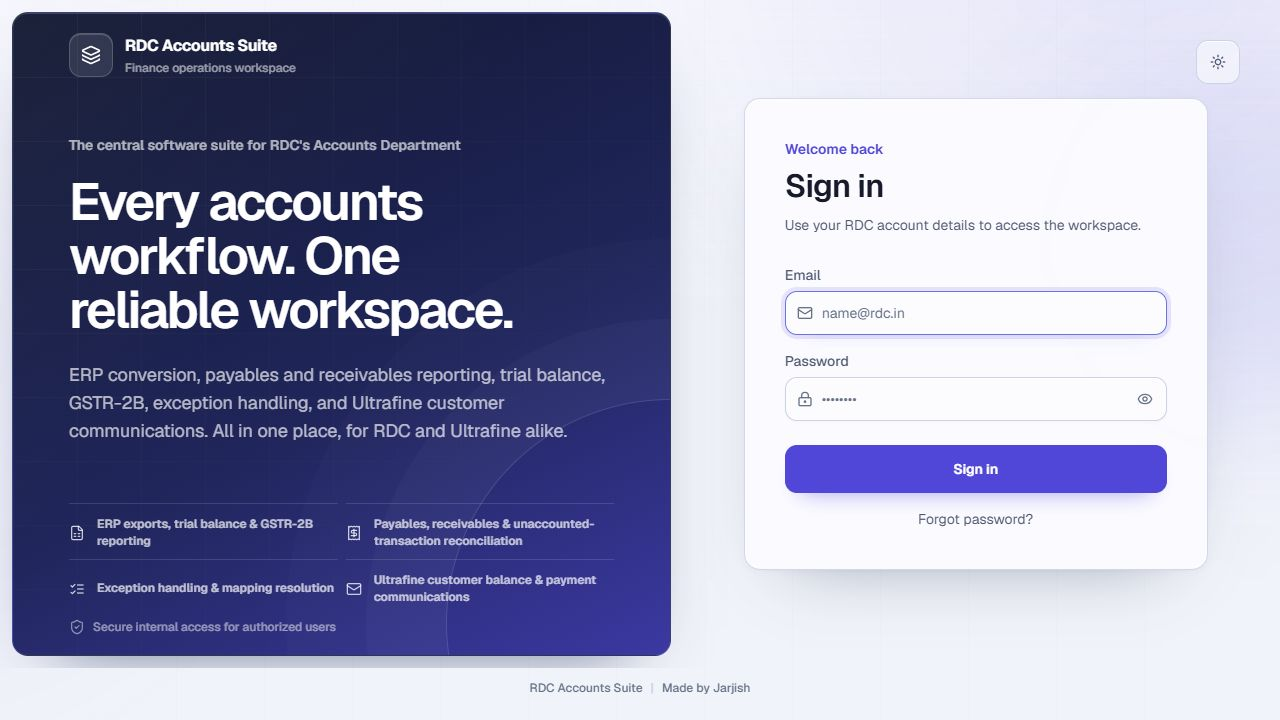
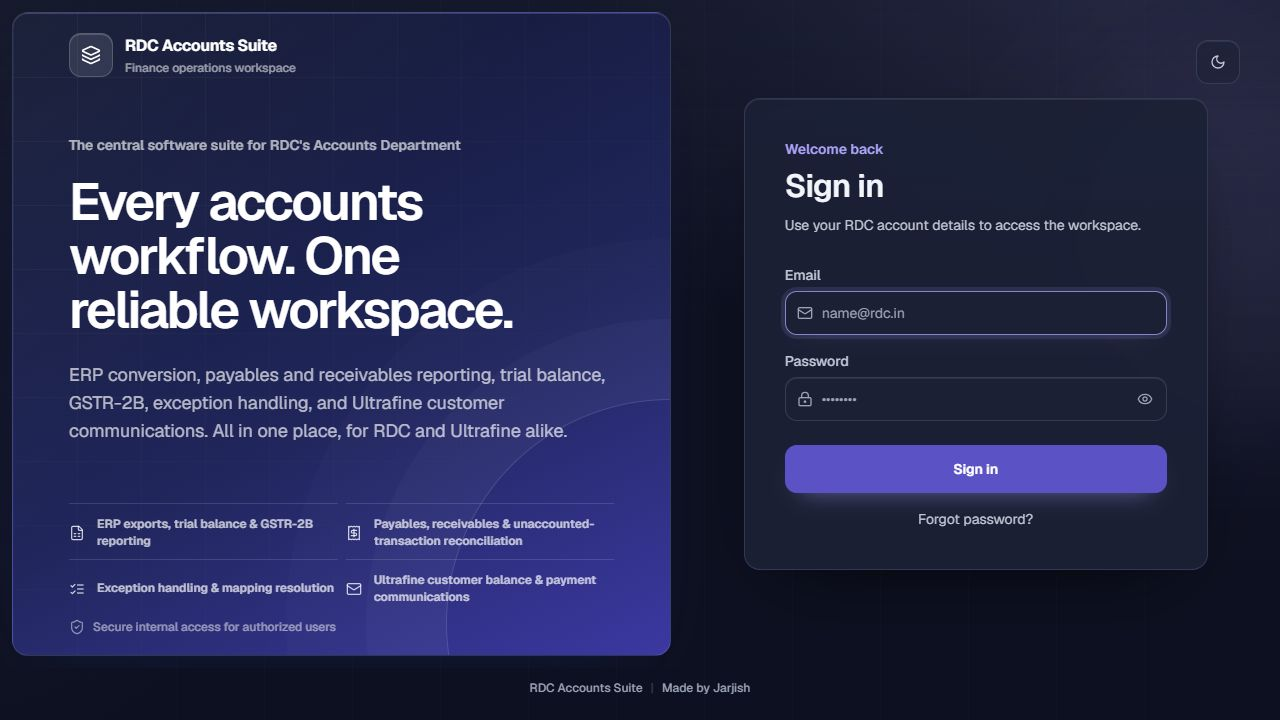
Refresh project documentation and product screenshots

diff --git a/README.md b/README.md
@@ -1,101 +1,158 @@
 # RDC Accounts Suite
 
-RDC Accounts Suite is the shared web workspace for RDC Concrete and Ultrafine's
-Accounts teams. It brings the former Windows utilities into one readable,
-role-aware application with durable background processing, central mappings,
-Oracle-backed reports, and scheduled email workflows.
+> A production-oriented finance operations workspace that consolidates RDC
+> Concrete and Ultrafine reporting, reconciliation, mapping, Oracle enrichment,
+> and scheduled communication workflows into one secure web application.
+
+![Python 3.11+](https://img.shields.io/badge/Python-3.11%2B-3776AB?logo=python&logoColor=white)
+![FastAPI](https://img.shields.io/badge/FastAPI-API-009688?logo=fastapi&logoColor=white)
+![React](https://img.shields.io/badge/React-TypeScript-149ECA?logo=react&logoColor=white)
+![MySQL](https://img.shields.io/badge/MySQL-Durable%20state-4479A1?logo=mysql&logoColor=white)
+![Status](https://img.shields.io/badge/status-internal%20production-5B4CF0)
 
 ![RDC Accounts Suite dashboard](docs/screenshots/dashboard.png)
 
-## What it includes
+## At a glance
 
-| Application | Purpose | External dependency |
+| Product surface | Engineering baseline |
+| --- | --- |
+| 13 permission-controlled finance applications | 200 automated backend tests |
+| Centralized, searchable MySQL mappings | Multi-process API, job-worker, and scheduler runtime |
+| RDC-only, Ultrafine-only, and combined dashboard views | Owner- and browser-tab-scoped durable jobs |
+| Excel, Oracle ERP, SMTP, and browser-automation workflows | Soft deletion, audit history, encrypted secrets, and idempotent mail |
+
+The suite replaces a collection of Windows utilities with one responsive,
+role-aware workspace. Users receive only the tools granted to them; administrators
+control access, mappings, email defaults, automation, audit history, and recovery.
+
+## Application catalogue
+
+| Application | Outcome | Integration |
 | --- | --- | --- |
-| ERP to Excel Converter | Clean and format ERP exports as workbooks | None |
-| Loans & Advance, IOCL, TDS Report Generator | Produce the mapped loans, advances, IOCL, TDS, and other report | None |
-| Unaccounted Transactions, Pending MRN & Uninvoiced Expense POs | Generate the three exception reports and mail package | None |
-| Trial Balance Location Wise | Convert and review trial-balance data | None |
-| GSTR 2B File Combinator | Combine GSTR-2B exports | None |
-| Unapplied Receipts Report | Enrich receipts with live location/comments data | Oracle |
-| Ultrafine Balance Confirmation | Prepare and send balance confirmations | SMTP |
-| Ultrafine Payment Reminder | Prepare and send payment reminders | SMTP |
-| GST Invoice Number Adder | Enrich GST workbooks with invoice numbers | Oracle |
-| Closing Period Report Generator | Combine closing-period HTML/XLS exports | None |
-| Ultrafine IOCL Balance Monitor | Watch CCMS balance and send scheduled alerts | Playwright + SMTP |
-| Ultrafine Creditors Ageing Report Generator | Build classified creditors, advances, and intercompany ageing schedules from Tally | None |
-| Ultrafine Trial Balance Formatter | Reproduce the approved Ultrafine trial-balance layout from a raw Tally export | None |
+| ERP to Excel Converter | Converts raw ERP exports into clean, formatted workbooks | Excel files |
+| Loans & Advance, IOCL, TDS Report Generator | Produces the mapped loans, advances, IOCL, TDS, and other report with an editable download name | Excel files |
+| Unaccounted Transactions, Pending MRN & Uninvoiced Expense POs | Detects periods, generates three exception reports, previews email, and sends the selected package | Excel + SMTP |
+| Trial Balance Location Wise | Converts and reviews trial-balance data by location | Excel files |
+| GSTR 2B File Combinator | Validates and combines GSTR-2B exports | Excel files |
+| Unapplied Receipts Report Generator | Enriches receipts with live location and comment data | Oracle ERP |
+| Ultrafine Balance Confirmation | Prepares and sends customer balance confirmations | Excel + SMTP |
+| Ultrafine Payment Reminder | Prepares and sends controlled payment reminders | Excel + SMTP |
+| GST Invoice Number Adder | Enriches GST workbooks with invoice numbers | Oracle ERP |
+| Closing Period Report Generator | Combines Oracle BI Publisher HTML-XLS exports into a formula-backed report | HTML-XLS files |
+| Ultrafine IOCL Balance Monitor | Checks CCMS balance, maintains complete history, and sends scheduled morning and threshold reminders | Playwright + SMTP |
+| Ultrafine Creditors Ageing Report Generator | Builds classified creditors, advances, and intercompany ageing schedules from Tally | Excel files |
+| Ultrafine Trial Balance Formatter | Reproduces the approved Ultrafine trial-balance layout from a raw Tally export | Excel files |
 
-The DMS Downloader is retired and intentionally not part of the catalogue.
+The DMS Downloader is retired and intentionally excluded from the catalogue.
 
-## Built for a shared office server
+## Product tour
 
-- FastAPI and SQLAlchemy backend with MySQL as the durable system of record.
-- React, TypeScript, Vite, Tailwind, Geist typography, and accessible responsive UI.
-- Two supervised API workers, two durable job workers, and one scheduler by default.
-- MySQL-backed job leases, tab ownership, rate limits, resource slots, audit history, and idempotent mail actions.
-- Centralized mappings with searchable suggestions, pagination, soft deletion, and administrator-controlled defaults.
-- Oracle work is coordinated through the shared `oracle-gst` resource slot; report generation does not require Excel COM.
-- IOCL has one encrypted, administrator-owned sender configuration. Regular users can check the balance and read history only. Portal checks try at most three times; below-threshold alerts repeat on an administrator-configured minute interval until the balance recovers.
-
-## Screenshots
-
-| Sign in | Administrator dashboard |
+| Secure sign-in | Editable report identity |
 | --- | --- |
-| ![Sign in](docs/screenshots/login.png) | ![Dashboard](docs/screenshots/dashboard.png) |
+| ![Secure sign-in](docs/screenshots/login.png) | ![Loans, advances, IOCL and TDS report filename](docs/screenshots/loans-advance-report.png) |
 
-| IOCL administrator configuration | User administration |
+| Role-aware dashboard | Searchable user administration |
 | --- | --- |
-| ![IOCL administrator view](docs/screenshots/iocl-admin.png) | ![User administration](docs/screenshots/user-administration.png) |
+| ![Role-aware dashboard](docs/screenshots/dashboard.png) | ![User administration](docs/screenshots/user-administration.png) |
 
-| IOCL standard-user view | Complete IOCL history |
-| --- | --- |
-| ![IOCL standard-user view](docs/screenshots/iocl-user.png) | ![IOCL history](docs/screenshots/iocl-history.png) |
+![Administrator-owned IOCL balance automation](docs/screenshots/iocl-admin.png)
 
-Screenshots use a disposable local MySQL database with synthetic
-`example.invalid` identities and no real credentials or recipient addresses.
+Screenshots were captured from a disposable documentation database containing
+only synthetic `example.invalid` users, recipients, and credentials.
 
-## Roles and safety boundaries
+## Finance workflow capabilities
 
-Administrators manage users, application access, centralized mappings, sender
-defaults, backups, audit logs, and IOCL configuration. Regular users see only
-the applications granted to them. The API enforces every permission; hiding a
-control in the browser is never treated as authorization.
+### Reporting and workbook fidelity
 
-All business records use soft deletion (`is_deleted = true`). User email is
-required and unique after normalization; first and last name are optional, and
-active/inactive is independent from archived/not-archived.
+- Background processing keeps large workbook jobs responsive and recoverable.
+- Date, month, year, and month-year pickers replace ambiguous free-text dates.
+- Formulas remain live in downloaded workbooks, with cached results populated
+  where email previews or Protected View need immediately visible values.
+- Pending MRN and Uninvoiced Expense PO period detection is a mandatory gate;
+  neither the UI nor API accepts incomplete or stale selections.
+- The loans/advances report proposes a business-ready filename from the selected
+  cutoff month and current IST date, while allowing a user to edit it before download.
+
+### Centralized reference data
+
+- Mapping tables live in MySQL as the system of record; workbook import/export
+  is intentionally removed.
+- Mapping editors and missing-mapping remediation fields provide searchable
+  existing-value suggestions while still accepting a new classification.
+- High-growth users, mappings, exclusions, histories, and audit logs have search
+  and pagination. User and audit search execute server-side.
+- Seeds add missing natural keys without overwriting administrator edits or
+  silently reviving archived rows.
+
+### Automation and communications
+
+- Email defaults, recipients, report selections, subjects, and bodies are
+  centrally administered and editable only where the workflow permits.
+- IOCL uses one administrator-owned sender and one shared schedule/configuration.
+  Portal checks retry up to three times; threshold reminders repeat at an
+  administrator-selected minute interval until the balance recovers.
+- Regular users receive a safe support message for operational failures, while
+  administrators retain the technical error detail in the portal and audit trail.
+
+### Access and operational safety
+
+- Email identity is required, normalized, and unique; first and last name are optional.
+- Active/inactive state is separate from archived/not-archived state.
+- Business records use soft deletion and restoration rather than destructive deletion.
+- API authorization enforces application grants and administrator boundaries;
+  hiding controls in the browser is never treated as security.
+- SMTP/app passwords and portal sessions are encrypted and excluded from job JSON,
+  logs, responses, browser storage, and source control.
 
 ## Architecture
 
 ```mermaid
 flowchart LR
-  Browser[Browser tabs] --> API[FastAPI API workers]
-  API --> DB[(MySQL)]
-  API --> Queue[Durable background_jobs]
+  Tabs[Concurrent browser tabs] --> API[Supervised FastAPI workers]
+  API --> DB[(MySQL<br/>users · mappings · audit · jobs · leases)]
+  API --> Queue[Durable background jobs]
   Queue --> Workers[Processing workers]
   Scheduler[Single scheduler] --> Queue
-  Workers --> Oracle[(Oracle ERP)]
+  Workers --> Slots[Shared resource slots]
+  Slots --> Oracle[(Oracle ERP)]
   Workers --> SMTP[SMTP]
-  API --> Static[Committed React bundle]
+  Workers --> Portal[IOCL portal automation]
+  API --> UI[Committed React/Vite bundle]
 ```
 
-See [the architecture guide](docs/ARCHITECTURE.md) for ownership, leases,
-Oracle limits, and the scheduler model.
+`start_all.bat` launches the supervisor, which maintains API workers, job
+workers, and one scheduler. MySQL coordinates jobs, rate limits, ownership,
+leases, resource slots, and idempotent actions, so multiple users and tabs do
+not depend on process-local memory. Oracle work shares the `oracle-gst` slot to
+avoid multiplying connection pressure as worker counts increase.
+
+See [Architecture](docs/ARCHITECTURE.md) for the complete concurrency and data
+protection model.
+
+## Technology stack
+
+| Layer | Technologies |
+| --- | --- |
+| Frontend | React, TypeScript, Vite, Tailwind CSS, Geist, Lucide icons |
+| API | FastAPI, Pydantic, SQLAlchemy |
+| Durable coordination | MySQL jobs, leases, resource slots, rate limits, sessions, and audit events |
+| Workbook processing | openpyxl, pure-Python formula caching, file-format-aware parsers |
+| Integrations | Oracle Database, SMTP, Playwright Chromium |
+| Operations | Windows supervisor, multi-process API/workers, scheduler, committed static bundle |
 
 ## Quick start
 
 1. Install Python 3.11+ and MySQL on the server PC.
-2. Copy `backend/.env.example` to `backend/.env` and set MySQL, initial admin,
-   application URL, and any Oracle/SMTP values required by your workflows.
-3. Install Oracle Instant Client under `backend/instantclient/` only if using
-   the Oracle-backed tools.
-4. Double-click [`start_all.bat`](start_all.bat). It creates/checks the virtual
-   environment, installs `requirements.txt`, installs Playwright Chromium, and
-   starts the supervised service on port `2805`.
-5. Open `http://<server-LAN-IP>:2805` and sign in with the initial admin.
+2. Copy `backend/.env.example` to `backend/.env` and configure MySQL, the
+   initial administrator, application URL, and required Oracle/SMTP values.
+3. Install Oracle Instant Client under `backend/instantclient/` only when using
+   Oracle-backed applications.
+4. Run [`start_all.bat`](start_all.bat). It prepares dependencies, installs the
+   supported Playwright browser, and starts the supervised suite on port `2805`.
+5. Open `http://<server-LAN-IP>:2805` and sign in as the initial administrator.
 
-The production machine does not need Node/npm: the built React bundle is
-committed under `backend/app/static/`.
+Production does not need Node/npm because the built frontend is committed under
+`backend/app/static/`.
 
 ## Development and verification
 
@@ -109,31 +166,41 @@ npm install
 npm run build
 ```
 
-`npm run build` writes directly to `backend/app/static/`; commit the source and
-generated assets together. Use `git diff --check` before committing.
+The Vite build writes to `backend/app/static/`; commit frontend source and the
+generated bundle together. The current suite contains 200 backend unit and
+integration tests. Passing them verifies covered behavior but is not a claim of
+complete live Oracle, SMTP, portal, or historical desktop parity.
 
-## Deployment and database changes
+## Documentation
 
-Production updates are manual: pull `main`, run any dated SQL migration
-documented under [`docs/DEPLOYMENT.md`](docs/DEPLOYMENT.md) using MySQL
-Workbench, then restart [`start_all.bat`](start_all.bat). Migrations are
+| Guide | Audience |
+| --- | --- |
+| [User guide](docs/USER_GUIDE.md) | Uploads, report generation, downloads, mapping remediation, and IOCL history |
+| [Administrator guide](docs/ADMIN_GUIDE.md) | Users, grants, centralized mappings, email defaults, IOCL automation, and audit |
+| [Architecture](docs/ARCHITECTURE.md) | Runtime topology, concurrency, leases, ownership, and secret handling |
+| [Deployment](docs/DEPLOYMENT.md) | Production pull, MySQL migrations, restart, and verification |
+| [Troubleshooting](docs/TROUBLESHOOTING.md) | Server, job, Oracle, SMTP, and IOCL diagnostics |
+| [Security policy](SECURITY.md) | Vulnerability reporting and secret-handling expectations |
+| [AI agent handoff](docs/AI_CODING_AGENT_HANDOFF.md) | Product invariants, reference applications, migrations, and required checks |
+
+## Deployment model
+
+Production updates are explicit: pull `main`, run any applicable dated SQL from
+[`deployment/mysql`](deployment/mysql) in MySQL Workbench, restart
+[`start_all.bat`](start_all.bat), and perform the checks in
+[the deployment guide](docs/DEPLOYMENT.md). Migrations are written to be
 idempotent, but should still be reviewed before execution.
-
-Read the [deployment guide](docs/DEPLOYMENT.md), [administrator guide](docs/ADMIN_GUIDE.md),
-[user guide](docs/USER_GUIDE.md), and [troubleshooting guide](docs/TROUBLESHOOTING.md)
-before operating the server. Security-sensitive handling is documented in
-[`SECURITY.md`](SECURITY.md).
 
 ## Project status
 
-This is an internal, proprietary operations application designed for the
-configured RDC/Ultrafine environment and reference workflows. Desktop parity
-must be demonstrated with representative input and external systems before it
-is described as complete.
+This is an internal, proprietary operations application built for the configured
+RDC/Ultrafine environment. No license is granted for external redistribution.
+Desktop parity is reported only for workflows validated with representative
+inputs and the required external systems.
 
-## Working with AI coding agents
+## Contributing
 
-Read [`AGENTS.md`](AGENTS.md) and
+Read [`AGENTS.md`](AGENTS.md), [`CONTRIBUTING.md`](CONTRIBUTING.md), and
 [`docs/AI_CODING_AGENT_HANDOFF.md`](docs/AI_CODING_AGENT_HANDOFF.md) before
-changing code. They record product invariants, migrations, concurrency rules,
-reference projects, and required verification commands.
+changing code. They define non-negotiable product invariants, the deployment
+boundary, test commands, and safe collaboration rules.

diff --git a/docs/USER_GUIDE.md b/docs/USER_GUIDE.md
@@ -18,6 +18,25 @@ Report mail defaults are editable where the workflow permits. In the Unaccounted
 workflow, one, two, or all three selected reports update the subject and body
 automatically before sending.
 
+### Loans & Advance, IOCL, TDS Report Generator
+
+Upload the Oracle ERP workbook and select the GL cutoff month and year. The
+application proposes a filename in this form:
+
+```text
+Loans and Advance, IOCL, TDS, Other till Aug-26 as on 31.08.2026.xlsx
+```
+
+The `till` period follows the selected cutoff month. The `as on` portion uses
+today's date in Indian Standard Time and is recalculated when an untouched
+default is submitted. You may edit the filename before generating the report or
+again before downloading it. The `.xlsx` extension is added automatically.
+Characters that Windows does not allow in filenames are rejected with a clear
+validation message.
+
+The application key and URL remain `rdc-payables` for backward-compatible user
+grants and bookmarks; only the user-facing name has changed.
+
 ### Ultrafine Creditors Ageing
 
 Upload the fresh Tally workbook containing the TB and Bill Wise data. Leave
@@ -59,8 +78,8 @@ only.
 
 Regular users see `We have encountered an issue, please contact Jarjish 🥲`
 for failures; administrators retain the technical details needed to diagnose
-them. Retry after correcting any clearly identified input validation. Do not refresh or
-close a tab during a cancellable report unless you intend to abandon it. For
+them. Retry after correcting any clearly identified input validation. Do not
+refresh or close a tab during a cancellable report unless you intend to abandon it. For
 server, Oracle, SMTP, or scheduler issues, contact the administrator with the
 timestamp and the visible job/error identifier; never send passwords or session
 files in a ticket.

diff --git a/docs/ARCHITECTURE.md b/docs/ARCHITECTURE.md
@@ -33,6 +33,19 @@ The supported deployment boundary is one Windows server with multiple local
 processes. Multiple machines additionally need shared scratch/output storage
 (or object storage) because MySQL alone does not make local file paths portable.
 
+## Report identity and downloads
+
+The public name **Loans & Advance, IOCL, TDS Report Generator** deliberately
+retains the `rdc-payables` application key, API prefix, and frontend route.
+Display names may evolve, but authorization keys are persistent identifiers.
+
+Its proposed workbook name is calculated from the selected GL cutoff period and
+the current IST date. The browser may submit an edited name while creating the
+job and may override it again at download time. The API validates both paths,
+normalizes the `.xlsx` extension, rejects Windows-reserved characters, and owns
+the final `Content-Disposition` filename. This prevents a client-only rename
+from bypassing server filename safety.
+
 ## Data protection
 
 Business rows are archived with `is_deleted`; no business delete operation

diff --git a/docs/ADMIN_GUIDE.md b/docs/ADMIN_GUIDE.md
@@ -31,6 +31,11 @@ Email administration controls the default sender/recipients and templates used
 by the report applications. Users can edit a compose screen when the workflow
 allows it, but defaults remain centralized.
 
+The catalogue label **Loans & Advance, IOCL, TDS Report Generator** uses the
+stable internal key `rdc-payables`. Do not rename the key or route: existing
+application grants and saved links depend on it. The display-name migration is
+label-only and does not alter mappings or permissions.
+
 ## IOCL monitor
 
 The IOCL monitor has one shared configuration owned by administrators:
